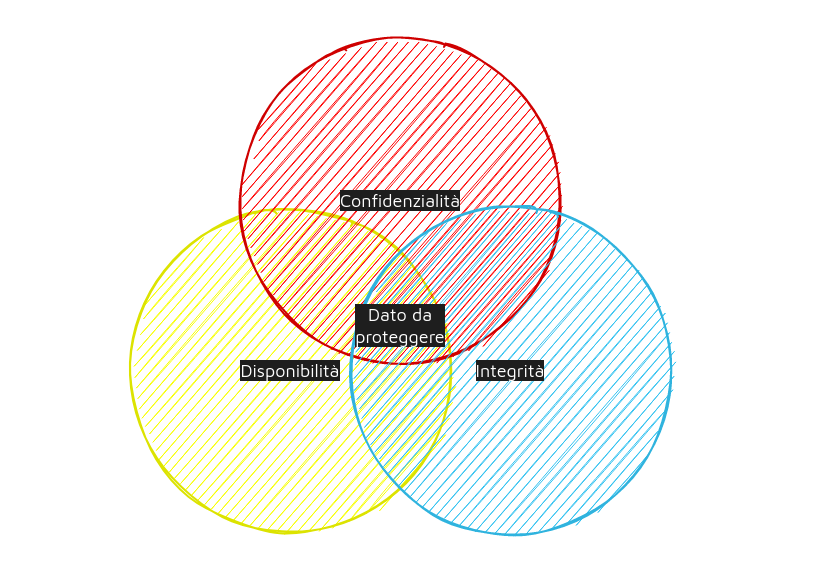
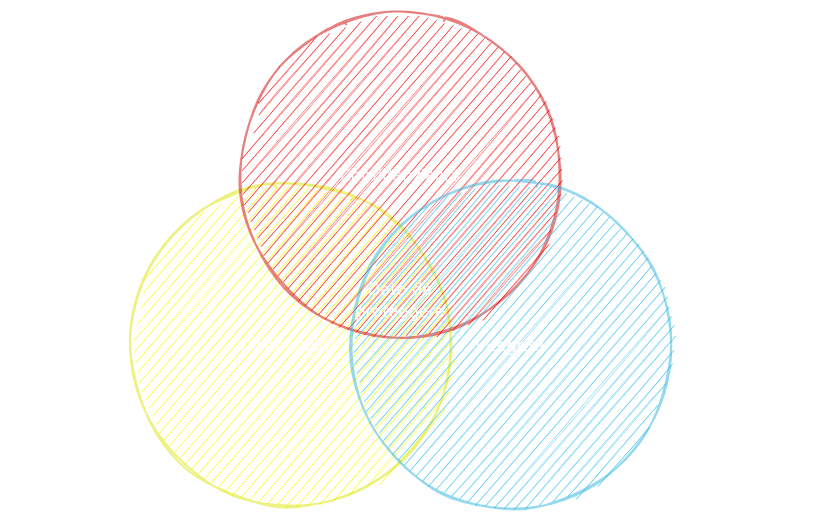
test18

Changed region(s): [[0.1511, 0.0, 0.8162, 0.9624]]

diff --git a/INPUT.md b/INPUT.md
@@ -1,7 +1,38 @@
+<div align="center">
+
 # Sicurezza dell'informazione 2021-2022
+</div>
+
+<div align="center">
+
+[![Dark/Light Mode](https://img.shields.io/badge/Compatible-Dark&Light%20Mode-1f425f.svg)](https://github.com/dariodenardi)
+[![License: CC0-1.0](https://img.shields.io/badge/License-CC0%201.0-blue.svg)](http://creativecommons.org/publicdomain/zero/1.0/)
+</div>
+
+<!-- TABLE OF CONTENTS -->
+<details open="open">
+  <summary><h2 style="display: inline-block">Table of Contents</h2></summary>
+  <ol>
+    <li>
+      <a href="#introduzione">Introduzione</a>
+      <ul>
+        <li><a href="#scopo-della-sicurezza-informatica">Scopo della sicurezza informatica</a></li>
+      </ul>
+    </li>
+    <li>
+      <a href="#dati-sicuri">Dati Sicuri</a>
+      <ul>
+        <li><a href="#prerequisites">Prerequisites</a></li>
+        <li><a href="#installation">Installation</a></li>
+      </ul>
+    </li>
+    <li><a href="#usage">Usage</a></li>
+  </ol>
+</details>
+
 
 <!-- lezione del 23/09/2021-->
-## 00.Introduzione
+## Introduzione
 
 ### Scopo della sicurezza informatica
 
@@ -154,7 +185,7 @@ Ci sono tre principi che guidano la progettazione delle trasformazioni:
 Per proteggere i dati si ha bisogno di una trasformata che renda incomprensibile il contenuto. In questo modo, l'intrusore non sarà in grado di capire i messaggi.
 La riservatezza si ottiene con una trasformazione di tipo _preventivo_: l'intrusore che accede ai dati non sarà in grado di comprenderli.
 
-![confidenzialità](./img/img2.png)
+![confidenzialità](./img/img2-light.png)
 
 Lo scenario applicativo è il seguente:
 
@@ -2324,9 +2355,20 @@ pwd, se troppo lungo problema di intercettazione e riutilizzo;
 
 <!-- lezione 25/11 -->
 
+### Kerberos V.4
+
+Si assume che sulle workstation sia presente un client Kerberos. Per ogni dominio di amministrazione Kerberos esiste un AS e un TGS. AS gestisce un insieme di utenti che appartengono a quel dominio e il TGS amministra il rilascio delle credenziali che appartengono a quel dominio. Gli utenti precondividono segreti con gli AS, gli AS con i TGS, i TGS con i servizi.
+
 ![marco togni](./img/img94.png)
 
-24.57
+La comunicazione totale, in sintesi, si articola in questo modo:
+
+- All’inizio della sessione di lavoro sulla stazione C, l’utente dichiara la sua identità ad AS
+- AS fornisce il permesso d’accesso a TGS e lo sfida ad usarlo
+- C risponde alla sfida, richiedendo anche l’accesso al server V
+- TGS fornisce a C il permesso d’accesso a V e lo sfida ad usarlo
+  - C si qualifica a V
+  - V si fa identificare da C
 
 <!-- lezione 01/12 -->
 
